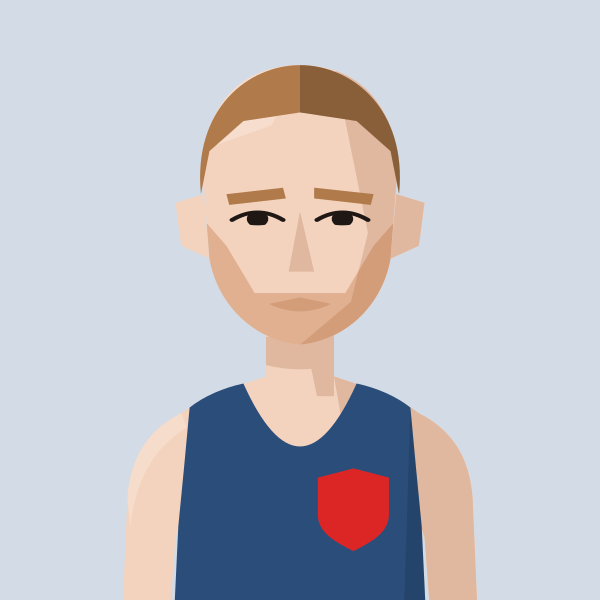
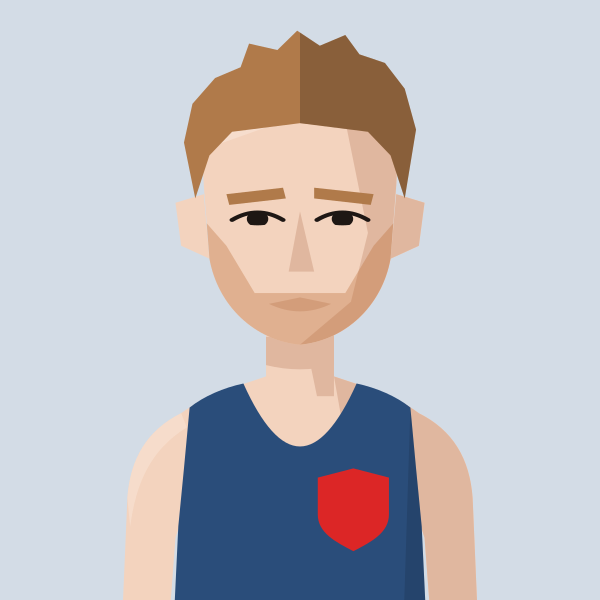
Jonathan Collier: tuftier hair
Claude-Session: https://claude.ai/code/session_01MgmDWhFqnSSnP4iBLKXUZC

Changed region(s): [[0.3, 0.03, 0.69, 0.33]]

diff --git a/tools/gen_portraits.py b/tools/gen_portraits.py
@@ -386,7 +386,7 @@ save("fox", figure("THH", skin=1, hair="quiff", hair_colour="dark brown"))
 save("woods", figure("HOL", skin=1, hair="tousled", hair_colour="light brown"))
 save("ryan", figure("BEL", skin=1, hair="fringe", hair_colour="dark brown"))
 save("mccolgan", figure("THH", skin=1, hair="shortcurls", hair_colour="light brown"))
-save("collier", figure("KEN", skin=1, hair="crop", hair_colour="#B07A4A", facial="stubble", facial_colour="#B5652E"))
+save("collier", figure("KEN", skin=1, hair="tousled", hair_colour="#B07A4A", facial="stubble", facial_colour="#B5652E"))
 save("green", figure("HOL", skin=1, hair="crop", hair_colour="dark brown", facial="stubble"))
 save("pearce", figure("BEL", skin=1, hair="tousled", hair_colour="black"))
 save("shaw", figure("HHH", skin=1, hair=None))
